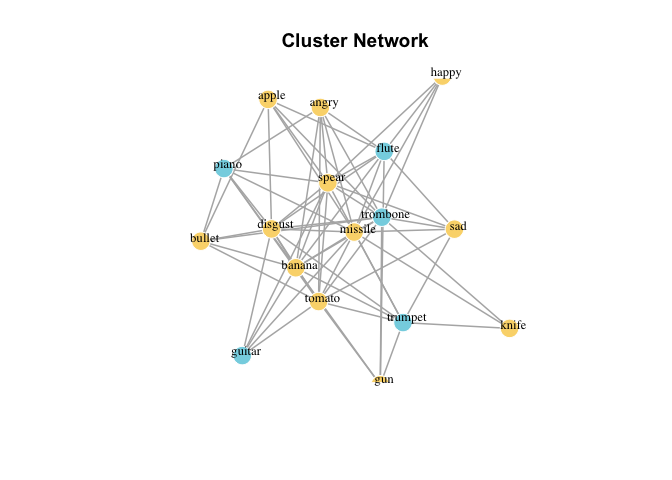
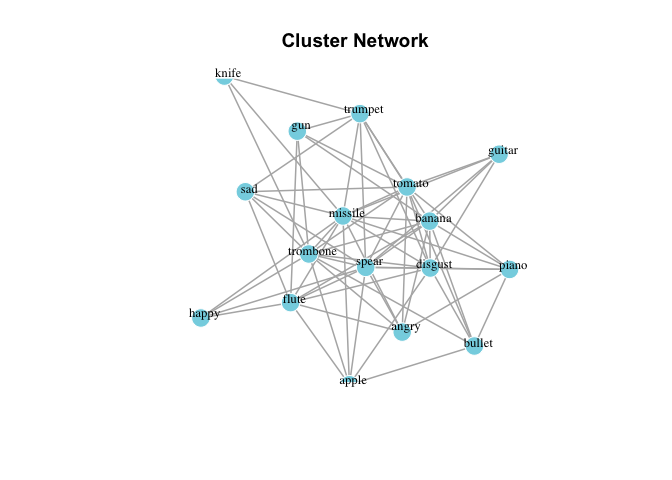
updated readme and network scripts

Changed region(s): [[0.2812, 0.125, 0.7812, 0.8125]]

diff --git a/docs/index.html b/docs/index.html
@@ -12,8 +12,8 @@
 <link rel="icon" sizes="any" href="favicon.ico">
 <link rel="manifest" href="site.webmanifest">
 <script src="deps/jquery-3.6.0/jquery-3.6.0.min.js"></script><meta name="viewport" content="width=device-width, initial-scale=1, shrink-to-fit=no">
-<link href="deps/bootstrap-5.3.1/bootstrap.min.css" rel="stylesheet">
-<script src="deps/bootstrap-5.3.1/bootstrap.bundle.min.js"></script><link href="deps/font-awesome-6.5.2/css/all.min.css" rel="stylesheet">
+<link href="deps/bootstrap-5.3.8/bootstrap.min.css" rel="stylesheet">
+<script src="deps/bootstrap-5.3.8/bootstrap.bundle.min.js"></script><link href="deps/font-awesome-6.5.2/css/all.min.css" rel="stylesheet">
 <link href="deps/font-awesome-6.5.2/css/v4-shims.min.css" rel="stylesheet">
 <script src="deps/headroom-0.11.0/headroom.min.js"></script><script src="deps/headroom-0.11.0/jQuery.headroom.min.js"></script><script src="deps/bootstrap-toc-1.0.1/bootstrap-toc.min.js"></script><script src="deps/clipboard.js-2.0.11/clipboard.min.js"></script><script src="deps/search-1.0.0/autocomplete.jquery.min.js"></script><script src="deps/search-1.0.0/fuse.min.js"></script><script src="deps/search-1.0.0/mark.min.js"></script><!-- pkgdown --><script src="pkgdown.js"></script><meta property="og:title" content="Compute Semantic Distance Between Text Constituents">
 <meta name="description" content="Cleans and formats language transcripts guided by a series of transformation options (e.g., lemmatize words, omit stopwords, split strings across rows). SemanticDistance computes two distinct metrics of cosine semantic distance (experiential and embedding). These values reflect pairwise cosine distance between different elements or chunks of a language sample. SemanticDistance can process monologues (e.g., stories, ordered text), dialogues (e.g., conversation transcripts), word pairs arrayed in columns, and unordered word lists. Users specify options for how they wish to chunk distance calculations. These options include: rolling ngram-to-word distance (window of n-words to each new word), ngram-to-ngram distance (2-word chunk to the next 2-word chunk), pairwise distance between words arrayed in columns, matrix comparisons (i.e., all possible pairwise distances between words in an unordered list), turn-by-turn distance (talker to talker in a dialogue transcript). SemanticDistance includes visualization options for analyzing distances as time series data and simple semantic network dynamics (e.g., clustering, undirected graph network).">
@@ -68,19 +68,20 @@
 SemanticDistance
 </h1>
 </div>
+<p>Compute Semantic Relatedness between Constituents of Sequential Continuous Text</p>
 <div class="section level1">
 <h1 id="section"><a class="anchor" aria-label="anchor" href="#section"></a></h1>
 <div style="clear: both; margin-top: 30px;">
 
 </div>
 <div style="display: flex; gap: 10px; flex-wrap: wrap; margin-bottom: 15px;">
-<p><a href="https://github.com/Reilly-ConceptsCognitionLab/SemanticDistance/releases" class="external-link"><img src="https://img.shields.io/github/v/release/Reilly-ConceptsCognitionLab/SemanticDistance?color=blue&amp;include_prereleases&amp;label=Release" alt="GitHub release"></a><a href="https://github.com/Reilly-ConceptsCognitionLab/SemanticDistance/tags" class="external-link"><img src="https://img.shields.io/github/v/tag/Reilly-ConceptsCognitionLab/SemanticDistance?color=blue" alt="GitHub tag (latest by date)"></a><a href="https://joss.theoj.org/papers/839ab720504a5c966b4b2893f78ec2b2" class="external-link"><img src="https://joss.theoj.org/papers/839ab720504a5c966b4b2893f78ec2b2/status.svg" alt="status"></a> <a href="https://github.com/Reilly-ConceptsCognitionLab/ConversationAlign/graphs/commit-activity" class="external-link"><img src="https://img.shields.io/badge/Maintained%3F-yes-green.svg" alt="Maintenance"></a> <a href="https://www.gnu.org/licenses/gpl-3.0" class="external-link"><img src="https://img.shields.io/badge/License-GPL%20v3+-blue.svg" alt="License: GPL v3+"></a></p>
+<p><a href="https://github.com/Reilly-ConceptsCognitionLab/SemanticDistance/releases" class="external-link"><img src="https://img.shields.io/github/v/release/Reilly-ConceptsCognitionLab/SemanticDistance?color=blue&amp;include_prereleases&amp;label=Release" alt="GitHub release"></a><a href="https://github.com/Reilly-ConceptsCognitionLab/SemanticDistance/tags" class="external-link"><img src="https://img.shields.io/github/v/tag/Reilly-ConceptsCognitionLab/SemanticDistance?color=blue" alt="GitHub tag (latest by date)"></a><a href="https://joss.theoj.org/papers/839ab720504a5c966b4b2893f78ec2b2" class="external-link"><img src="https://joss.theoj.org/papers/839ab720504a5c966b4b2893f78ec2b2/status.svg" alt="status"></a> <a href="https://www.gnu.org/licenses/gpl-3.0" class="external-link"><img src="https://img.shields.io/badge/License-GPL%20v3+-blue.svg" alt="License: GPL v3+"></a></p>
 </div>
 </div>
 <div class="section level1">
 <h1 id="overview">Overview<a class="anchor" aria-label="anchor" href="#overview"></a>
 </h1>
-<p><code>SemanticDistance</code> does the following operations: <br> 1) cleans and formats ordered text (monologues and dialogues) <br> 2) cleans and formats unordered word lists (e.g., bags-of-words) 3) computes pairwise semantic distance metrics using numerous chunking options 4) finds clustering solutions and creates simple semantic networks from given word list vectors. <br></p>
+<p><code>SemanticDistance</code> executes the following operations: <br> 1) cleans and formats ordered text (monologues and dialogues) <br> 2) cleans and formats unordered word lists (e.g., bags-of-words) <br> 3) computes pairwise semantic distance metrics using numerous chunking options <br> 4) finds clustering solutions and creates simple semantic networks from given word list vectors. <br></p>
 </div>
 <div class="section level1">
 <h1 id="install--load-package">Install &amp; Load Package<a class="anchor" aria-label="anchor" href="#install--load-package"></a>
@@ -94,7 +95,7 @@ SemanticDistance
 <h1 id="step-1-identify-your-data-structure">
 <span style="color: #8B0000; font-size: 1.1em; font-weight: bold;">Step 1: Identify Your Data Structure</span><a class="anchor" aria-label="anchor" href="#step-1-identify-your-data-structure"></a>
 </h1>
-<p><code>SemanticDistance</code> contains specialized functions for processing the text formats delineated to follow. To learn more about the specific options for string cleaning, computing distances, and visualizing output for each of these formats, visit its corresponding vigbnette. <br></p>
+<p><code>SemanticDistance</code> contains specialized functions for processing the text formats delineated to follow. To learn more about the specific options for string cleaning, computing distances, and visualizing output for each of these formats, visit its corresponding vignette. <br></p>
 <div class="section level2">
 <h2 id="monologue-example">Monologue (example)<a class="anchor" aria-label="anchor" href="#monologue-example"></a>
 </h2>
@@ -109,7 +110,7 @@ SemanticDistance
 </tr></tbody>
 </table>
 </div>
-<p>A monologue for our pourposes consists of any block of text NOT delineated by a talker/speaker. This includes ordered texts like stories or narratives, or unordered lists (i.e., bags of words). The minimum requirement for a monologue is one row and one column with some text in it. Here’s a sample monologue. <br></p>
+<p>A monologue for our purposes consists of any block of text NOT delineated by a talker/speaker. This includes ordered texts like stories or narratives, or unordered lists (i.e., bags of words). The minimum requirement for a monologue is one row and one column with some text in it. Here’s a sample monologue. <br></p>
 <div style="clear: both; margin-bottom: 20px;">
 
 </div>
@@ -941,8 +942,10 @@ fixed initial chunk of words to each new word or ngram
 <p><span style="color: #006400;">Arguments to <code>wordlist_to_network</code>:</span><br> -<code>dat</code> dataframe processed using <code><a href="reference/clean_monologue_or_list.html">clean_monologue_or_list()</a></code> <br> -<code>output</code> quoted argument <code>dendrogram</code> or <code>network</code> default is <code>dendrogram</code>. <br> -<code>dist_type</code> quoted argument, which distance norms would you like? default is <code>embedding</code> alternative is <code>SD15</code>. <br></p>
 <div class="sourceCode" id="cb10"><pre class="downlit sourceCode r">
 <code class="sourceCode R"><span><span class="va">MyCleanList</span> <span class="op">&lt;-</span> <span class="fu"><a href="reference/clean_monologue_or_list.html">clean_monologue_or_list</a></span><span class="op">(</span>dat<span class="op">=</span><span class="va">Unordered_List</span>, wordcol<span class="op">=</span><span class="st">'mytext'</span><span class="op">)</span></span>
-<span><span class="va">mydendro</span> <span class="op">&lt;-</span> <span class="fu"><a href="reference/wordlist_to_network.html">wordlist_to_network</a></span><span class="op">(</span><span class="va">MyCleanList</span>, output<span class="op">=</span><span class="st">'dendrogram'</span>, dist_type<span class="op">=</span><span class="st">'embedding'</span><span class="op">)</span></span></code></pre></div>
-<p><img src="reference/figures/README-unnamed-chunk-16-1.png" alt="" width="100%"></p>
+<span><span class="va">mydendro</span> <span class="op">&lt;-</span> <span class="fu"><a href="reference/wordlist_to_network.html">wordlist_to_network</a></span><span class="op">(</span><span class="va">MyCleanList</span>, output<span class="op">=</span><span class="st">'dendrogram'</span>, dist_type<span class="op">=</span><span class="st">'embedding'</span><span class="op">)</span></span>
+<span><span class="co">#&gt; [1] "Length of words: 17"</span></span>
+<span><span class="co">#&gt; [1] "my_kmax: 10"</span></span></code></pre></div>
+<p><img src="reference/figures/unnamed-chunk-16-1.png" alt="" width="100%" style="display: block; margin: auto auto auto 0;"></p>
 <div class="sourceCode" id="cb11"><pre class="downlit sourceCode r">
 <code class="sourceCode R"><span><span class="fu"><a href="https://rdrr.io/r/base/print.html" class="external-link">print</a></span><span class="op">(</span><span class="va">mydendro</span><span class="op">)</span></span>
 <span><span class="co">#&gt; 'dendrogram' with 2 branches and 17 members total, at height 5.168642</span></span></code></pre></div>
@@ -959,15 +962,17 @@ fixed initial chunk of words to each new word or ngram
 <p><span style="color: #006400;">Arguments to <code>clean_monologue_or_list</code></span> <br> - dat<code>input formatted dataframe. &lt;br&gt; -</code>dist_type<code>quoted argument distance option, default is "embedding", alt is</code>SD15`. <br></p>
 <div class="sourceCode" id="cb12"><pre class="downlit sourceCode r">
 <code class="sourceCode R"><span><span class="va">MyCleanList</span> <span class="op">&lt;-</span> <span class="fu"><a href="reference/clean_monologue_or_list.html">clean_monologue_or_list</a></span><span class="op">(</span>dat<span class="op">=</span><span class="va">Unordered_List</span>, wordcol<span class="op">=</span><span class="st">'mytext'</span><span class="op">)</span></span>
-<span><span class="va">mynetwork</span> <span class="op">&lt;-</span> <span class="fu"><a href="reference/wordlist_to_network.html">wordlist_to_network</a></span><span class="op">(</span><span class="va">MyCleanList</span>, output<span class="op">=</span><span class="st">'network'</span>, dist_type<span class="op">=</span><span class="st">'embedding'</span><span class="op">)</span></span></code></pre></div>
-<p><img src="reference/figures/README-unnamed-chunk-17-1.png" alt="" width="100%"></p>
+<span><span class="va">mynetwork</span> <span class="op">&lt;-</span> <span class="fu"><a href="reference/wordlist_to_network.html">wordlist_to_network</a></span><span class="op">(</span><span class="va">MyCleanList</span>, output<span class="op">=</span><span class="st">'network'</span>, dist_type<span class="op">=</span><span class="st">'embedding'</span><span class="op">)</span></span>
+<span><span class="co">#&gt; [1] "Length of words: 17"</span></span>
+<span><span class="co">#&gt; [1] "my_kmax: 10"</span></span></code></pre></div>
+<p><img src="reference/figures/unnamed-chunk-17-1.png" alt="" width="100%" style="display: block; margin: auto auto auto 0;"></p>
 <div class="sourceCode" id="cb13"><pre class="downlit sourceCode r">
 <code class="sourceCode R"><span><span class="fu"><a href="https://rdrr.io/r/base/print.html" class="external-link">print</a></span><span class="op">(</span><span class="va">mynetwork</span><span class="op">)</span></span>
-<span><span class="co">#&gt; IGRAPH d78291e UNW- 17 68 -- </span></span>
+<span><span class="co">#&gt; IGRAPH 4c13663 UNW- 17 68 -- </span></span>
 <span><span class="co">#&gt; + attr: name (v/c), cluster (v/n), color (v/c), size (v/n), label</span></span>
 <span><span class="co">#&gt; | (v/c), label.color (v/c), label.cex (v/n), weight (e/n), color (e/c),</span></span>
 <span><span class="co">#&gt; | width (e/n)</span></span>
-<span><span class="co">#&gt; + edges from d78291e (vertex names):</span></span>
+<span><span class="co">#&gt; + edges from 4c13663 (vertex names):</span></span>
 <span><span class="co">#&gt;  [1] trombone--missile trombone--gun     trombone--bullet  trombone--knife  </span></span>
 <span><span class="co">#&gt;  [5] trombone--spear   trombone--apple   trombone--banana  trombone--tomato </span></span>
 <span><span class="co">#&gt;  [9] trombone--disgust trombone--angry   trombone--sad     trombone--happy  </span></span>
@@ -1030,7 +1035,7 @@ fixed initial chunk of words to each new word or ngram
 </div>
 
 <div class="pkgdown-footer-right">
-  <p>Site built with <a href="https://pkgdown.r-lib.org/" class="external-link">pkgdown</a> 2.2.0.</p>
+  <p>Site built with <a href="https://pkgdown.r-lib.org/" class="external-link">pkgdown</a> 2.2.1.</p>
 </div>
 
     </footer>

diff --git a/docs/reference/index.html b/docs/reference/index.html
@@ -1,5 +1,5 @@
 <!DOCTYPE html>
-<!-- Generated by pkgdown: do not edit by hand --><html lang="en"><head><meta http-equiv="Content-Type" content="text/html; charset=UTF-8"><meta charset="utf-8"><meta http-equiv="X-UA-Compatible" content="IE=edge"><meta name="viewport" content="width=device-width, initial-scale=1, shrink-to-fit=no"><title>Package index • SemanticDistance</title><!-- favicons --><link rel="icon" type="image/png" sizes="96x96" href="../favicon-96x96.png"><link rel="icon" type="”image/svg+xml”" href="../favicon.svg"><link rel="apple-touch-icon" sizes="180x180" href="../apple-touch-icon.png"><link rel="icon" sizes="any" href="../favicon.ico"><link rel="manifest" href="../site.webmanifest"><script src="../deps/jquery-3.6.0/jquery-3.6.0.min.js"></script><meta name="viewport" content="width=device-width, initial-scale=1, shrink-to-fit=no"><link href="../deps/bootstrap-5.3.1/bootstrap.min.css" rel="stylesheet"><script src="../deps/bootstrap-5.3.1/bootstrap.bundle.min.js"></script><link href="../deps/font-awesome-6.5.2/css/all.min.css" rel="stylesheet"><link href="../deps/font-awesome-6.5.2/css/v4-shims.min.css" rel="stylesheet"><script src="../deps/headroom-0.11.0/headroom.min.js"></script><script src="../deps/headroom-0.11.0/jQuery.headroom.min.js"></script><script src="../deps/bootstrap-toc-1.0.1/bootstrap-toc.min.js"></script><script src="../deps/clipboard.js-2.0.11/clipboard.min.js"></script><script src="../deps/search-1.0.0/autocomplete.jquery.min.js"></script><script src="../deps/search-1.0.0/fuse.min.js"></script><script src="../deps/search-1.0.0/mark.min.js"></script><!-- pkgdown --><script src="../pkgdown.js"></script><meta property="og:title" content="Package index"><meta property="og:image" content="https://reilly-conceptscognitionlab.github.io/SemanticDistance/logo.png"></head><body>
+<!-- Generated by pkgdown: do not edit by hand --><html lang="en"><head><meta http-equiv="Content-Type" content="text/html; charset=UTF-8"><meta charset="utf-8"><meta http-equiv="X-UA-Compatible" content="IE=edge"><meta name="viewport" content="width=device-width, initial-scale=1, shrink-to-fit=no"><title>Package index • SemanticDistance</title><!-- favicons --><link rel="icon" type="image/png" sizes="96x96" href="../favicon-96x96.png"><link rel="icon" type="”image/svg+xml”" href="../favicon.svg"><link rel="apple-touch-icon" sizes="180x180" href="../apple-touch-icon.png"><link rel="icon" sizes="any" href="../favicon.ico"><link rel="manifest" href="../site.webmanifest"><script src="../deps/jquery-3.6.0/jquery-3.6.0.min.js"></script><meta name="viewport" content="width=device-width, initial-scale=1, shrink-to-fit=no"><link href="../deps/bootstrap-5.3.8/bootstrap.min.css" rel="stylesheet"><script src="../deps/bootstrap-5.3.8/bootstrap.bundle.min.js"></script><link href="../deps/font-awesome-6.5.2/css/all.min.css" rel="stylesheet"><link href="../deps/font-awesome-6.5.2/css/v4-shims.min.css" rel="stylesheet"><script src="../deps/headroom-0.11.0/headroom.min.js"></script><script src="../deps/headroom-0.11.0/jQuery.headroom.min.js"></script><script src="../deps/bootstrap-toc-1.0.1/bootstrap-toc.min.js"></script><script src="../deps/clipboard.js-2.0.11/clipboard.min.js"></script><script src="../deps/search-1.0.0/autocomplete.jquery.min.js"></script><script src="../deps/search-1.0.0/fuse.min.js"></script><script src="../deps/search-1.0.0/mark.min.js"></script><!-- pkgdown --><script src="../pkgdown.js"></script><meta property="og:title" content="Package index"><meta property="og:image" content="https://reilly-conceptscognitionlab.github.io/SemanticDistance/logo.png"></head><body>
     <a href="#main" class="visually-hidden-focusable">Skip to contents</a>
 
 
@@ -182,7 +182,7 @@
 </div>
 
 <div class="pkgdown-footer-right">
-  <p>Site built with <a href="https://pkgdown.r-lib.org/" class="external-link">pkgdown</a> 2.2.0.</p>
+  <p>Site built with <a href="https://pkgdown.r-lib.org/" class="external-link">pkgdown</a> 2.2.1.</p>
 </div>
 
     </footer></div>

diff --git a/docs/authors.html b/docs/authors.html
@@ -1,5 +1,5 @@
 <!DOCTYPE html>
-<!-- Generated by pkgdown: do not edit by hand --><html lang="en"><head><meta http-equiv="Content-Type" content="text/html; charset=UTF-8"><meta charset="utf-8"><meta http-equiv="X-UA-Compatible" content="IE=edge"><meta name="viewport" content="width=device-width, initial-scale=1, shrink-to-fit=no"><title>Authors and Citation • SemanticDistance</title><!-- favicons --><link rel="icon" type="image/png" sizes="96x96" href="favicon-96x96.png"><link rel="icon" type="”image/svg+xml”" href="favicon.svg"><link rel="apple-touch-icon" sizes="180x180" href="apple-touch-icon.png"><link rel="icon" sizes="any" href="favicon.ico"><link rel="manifest" href="site.webmanifest"><script src="deps/jquery-3.6.0/jquery-3.6.0.min.js"></script><meta name="viewport" content="width=device-width, initial-scale=1, shrink-to-fit=no"><link href="deps/bootstrap-5.3.1/bootstrap.min.css" rel="stylesheet"><script src="deps/bootstrap-5.3.1/bootstrap.bundle.min.js"></script><link href="deps/font-awesome-6.5.2/css/all.min.css" rel="stylesheet"><link href="deps/font-awesome-6.5.2/css/v4-shims.min.css" rel="stylesheet"><script src="deps/headroom-0.11.0/headroom.min.js"></script><script src="deps/headroom-0.11.0/jQuery.headroom.min.js"></script><script src="deps/bootstrap-toc-1.0.1/bootstrap-toc.min.js"></script><script src="deps/clipboard.js-2.0.11/clipboard.min.js"></script><script src="deps/search-1.0.0/autocomplete.jquery.min.js"></script><script src="deps/search-1.0.0/fuse.min.js"></script><script src="deps/search-1.0.0/mark.min.js"></script><!-- pkgdown --><script src="pkgdown.js"></script><meta property="og:title" content="Authors and Citation"><meta property="og:image" content="https://reilly-conceptscognitionlab.github.io/SemanticDistance/logo.png"></head><body>
+<!-- Generated by pkgdown: do not edit by hand --><html lang="en"><head><meta http-equiv="Content-Type" content="text/html; charset=UTF-8"><meta charset="utf-8"><meta http-equiv="X-UA-Compatible" content="IE=edge"><meta name="viewport" content="width=device-width, initial-scale=1, shrink-to-fit=no"><title>Authors and Citation • SemanticDistance</title><!-- favicons --><link rel="icon" type="image/png" sizes="96x96" href="favicon-96x96.png"><link rel="icon" type="”image/svg+xml”" href="favicon.svg"><link rel="apple-touch-icon" sizes="180x180" href="apple-touch-icon.png"><link rel="icon" sizes="any" href="favicon.ico"><link rel="manifest" href="site.webmanifest"><script src="deps/jquery-3.6.0/jquery-3.6.0.min.js"></script><meta name="viewport" content="width=device-width, initial-scale=1, shrink-to-fit=no"><link href="deps/bootstrap-5.3.8/bootstrap.min.css" rel="stylesheet"><script src="deps/bootstrap-5.3.8/bootstrap.bundle.min.js"></script><link href="deps/font-awesome-6.5.2/css/all.min.css" rel="stylesheet"><link href="deps/font-awesome-6.5.2/css/v4-shims.min.css" rel="stylesheet"><script src="deps/headroom-0.11.0/headroom.min.js"></script><script src="deps/headroom-0.11.0/jQuery.headroom.min.js"></script><script src="deps/bootstrap-toc-1.0.1/bootstrap-toc.min.js"></script><script src="deps/clipboard.js-2.0.11/clipboard.min.js"></script><script src="deps/search-1.0.0/autocomplete.jquery.min.js"></script><script src="deps/search-1.0.0/fuse.min.js"></script><script src="deps/search-1.0.0/mark.min.js"></script><!-- pkgdown --><script src="pkgdown.js"></script><meta property="og:title" content="Authors and Citation"><meta property="og:image" content="https://reilly-conceptscognitionlab.github.io/SemanticDistance/logo.png"></head><body>
     <a href="#main" class="visually-hidden-focusable">Skip to contents</a>
 
 
@@ -85,7 +85,7 @@ R package version 0.1.1, <a href="https://github.com/Reilly-ConceptsCognitionLab
 </div>
 
 <div class="pkgdown-footer-right">
-  <p>Site built with <a href="https://pkgdown.r-lib.org/" class="external-link">pkgdown</a> 2.2.0.</p>
+  <p>Site built with <a href="https://pkgdown.r-lib.org/" class="external-link">pkgdown</a> 2.2.1.</p>
 </div>
 
     </footer></div>

diff --git a/docs/LICENSE.html b/docs/LICENSE.html
@@ -1,5 +1,5 @@
 <!DOCTYPE html>
-<!-- Generated by pkgdown: do not edit by hand --><html lang="en"><head><meta http-equiv="Content-Type" content="text/html; charset=UTF-8"><meta charset="utf-8"><meta http-equiv="X-UA-Compatible" content="IE=edge"><meta name="viewport" content="width=device-width, initial-scale=1, shrink-to-fit=no"><title>GNU Lesser General Public License • SemanticDistance</title><!-- favicons --><link rel="icon" type="image/png" sizes="96x96" href="favicon-96x96.png"><link rel="icon" type="”image/svg+xml”" href="favicon.svg"><link rel="apple-touch-icon" sizes="180x180" href="apple-touch-icon.png"><link rel="icon" sizes="any" href="favicon.ico"><link rel="manifest" href="site.webmanifest"><script src="deps/jquery-3.6.0/jquery-3.6.0.min.js"></script><meta name="viewport" content="width=device-width, initial-scale=1, shrink-to-fit=no"><link href="deps/bootstrap-5.3.1/bootstrap.min.css" rel="stylesheet"><script src="deps/bootstrap-5.3.1/bootstrap.bundle.min.js"></script><link href="deps/font-awesome-6.5.2/css/all.min.css" rel="stylesheet"><link href="deps/font-awesome-6.5.2/css/v4-shims.min.css" rel="stylesheet"><script src="deps/headroom-0.11.0/headroom.min.js"></script><script src="deps/headroom-0.11.0/jQuery.headroom.min.js"></script><script src="deps/bootstrap-toc-1.0.1/bootstrap-toc.min.js"></script><script src="deps/clipboard.js-2.0.11/clipboard.min.js"></script><script src="deps/search-1.0.0/autocomplete.jquery.min.js"></script><script src="deps/search-1.0.0/fuse.min.js"></script><script src="deps/search-1.0.0/mark.min.js"></script><!-- pkgdown --><script src="pkgdown.js"></script><meta property="og:title" content="GNU Lesser General Public License"><meta property="og:image" content="https://reilly-conceptscognitionlab.github.io/SemanticDistance/logo.png"></head><body>
+<!-- Generated by pkgdown: do not edit by hand --><html lang="en"><head><meta http-equiv="Content-Type" content="text/html; charset=UTF-8"><meta charset="utf-8"><meta http-equiv="X-UA-Compatible" content="IE=edge"><meta name="viewport" content="width=device-width, initial-scale=1, shrink-to-fit=no"><title>GNU Lesser General Public License • SemanticDistance</title><!-- favicons --><link rel="icon" type="image/png" sizes="96x96" href="favicon-96x96.png"><link rel="icon" type="”image/svg+xml”" href="favicon.svg"><link rel="apple-touch-icon" sizes="180x180" href="apple-touch-icon.png"><link rel="icon" sizes="any" href="favicon.ico"><link rel="manifest" href="site.webmanifest"><script src="deps/jquery-3.6.0/jquery-3.6.0.min.js"></script><meta name="viewport" content="width=device-width, initial-scale=1, shrink-to-fit=no"><link href="deps/bootstrap-5.3.8/bootstrap.min.css" rel="stylesheet"><script src="deps/bootstrap-5.3.8/bootstrap.bundle.min.js"></script><link href="deps/font-awesome-6.5.2/css/all.min.css" rel="stylesheet"><link href="deps/font-awesome-6.5.2/css/v4-shims.min.css" rel="stylesheet"><script src="deps/headroom-0.11.0/headroom.min.js"></script><script src="deps/headroom-0.11.0/jQuery.headroom.min.js"></script><script src="deps/bootstrap-toc-1.0.1/bootstrap-toc.min.js"></script><script src="deps/clipboard.js-2.0.11/clipboard.min.js"></script><script src="deps/search-1.0.0/autocomplete.jquery.min.js"></script><script src="deps/search-1.0.0/fuse.min.js"></script><script src="deps/search-1.0.0/mark.min.js"></script><!-- pkgdown --><script src="pkgdown.js"></script><meta property="og:title" content="GNU Lesser General Public License"><meta property="og:image" content="https://reilly-conceptscognitionlab.github.io/SemanticDistance/logo.png"></head><body>
     <a href="#main" class="visually-hidden-focusable">Skip to contents</a>
 
 
@@ -111,7 +111,7 @@
 </div>
 
 <div class="pkgdown-footer-right">
-  <p>Site built with <a href="https://pkgdown.r-lib.org/" class="external-link">pkgdown</a> 2.2.0.</p>
+  <p>Site built with <a href="https://pkgdown.r-lib.org/" class="external-link">pkgdown</a> 2.2.1.</p>
 </div>
 
     </footer></div>

diff --git a/docs/404.html b/docs/404.html
@@ -12,8 +12,8 @@
 <link rel="icon" sizes="any" href="https://reilly-conceptscognitionlab.github.io/SemanticDistance/favicon.ico">
 <link rel="manifest" href="https://reilly-conceptscognitionlab.github.io/SemanticDistance/site.webmanifest">
 <script src="https://reilly-conceptscognitionlab.github.io/SemanticDistance/deps/jquery-3.6.0/jquery-3.6.0.min.js"></script><meta name="viewport" content="width=device-width, initial-scale=1, shrink-to-fit=no">
-<link href="https://reilly-conceptscognitionlab.github.io/SemanticDistance/deps/bootstrap-5.3.1/bootstrap.min.css" rel="stylesheet">
-<script src="https://reilly-conceptscognitionlab.github.io/SemanticDistance/deps/bootstrap-5.3.1/bootstrap.bundle.min.js"></script><link href="https://reilly-conceptscognitionlab.github.io/SemanticDistance/deps/font-awesome-6.5.2/css/all.min.css" rel="stylesheet">
+<link href="https://reilly-conceptscognitionlab.github.io/SemanticDistance/deps/bootstrap-5.3.8/bootstrap.min.css" rel="stylesheet">
+<script src="https://reilly-conceptscognitionlab.github.io/SemanticDistance/deps/bootstrap-5.3.8/bootstrap.bundle.min.js"></script><link href="https://reilly-conceptscognitionlab.github.io/SemanticDistance/deps/font-awesome-6.5.2/css/all.min.css" rel="stylesheet">
 <link href="https://reilly-conceptscognitionlab.github.io/SemanticDistance/deps/font-awesome-6.5.2/css/v4-shims.min.css" rel="stylesheet">
 <script src="https://reilly-conceptscognitionlab.github.io/SemanticDistance/deps/headroom-0.11.0/headroom.min.js"></script><script src="https://reilly-conceptscognitionlab.github.io/SemanticDistance/deps/headroom-0.11.0/jQuery.headroom.min.js"></script><script src="https://reilly-conceptscognitionlab.github.io/SemanticDistance/deps/bootstrap-toc-1.0.1/bootstrap-toc.min.js"></script><script src="https://reilly-conceptscognitionlab.github.io/SemanticDistance/deps/clipboard.js-2.0.11/clipboard.min.js"></script><script src="https://reilly-conceptscognitionlab.github.io/SemanticDistance/deps/search-1.0.0/autocomplete.jquery.min.js"></script><script src="https://reilly-conceptscognitionlab.github.io/SemanticDistance/deps/search-1.0.0/fuse.min.js"></script><script src="https://reilly-conceptscognitionlab.github.io/SemanticDistance/deps/search-1.0.0/mark.min.js"></script><!-- pkgdown --><script src="https://reilly-conceptscognitionlab.github.io/SemanticDistance/pkgdown.js"></script><meta property="og:title" content="Page not found (404)">
 <meta property="og:image" content="https://reilly-conceptscognitionlab.github.io/SemanticDistance/logo.png">
@@ -76,7 +76,7 @@ Content not found. Please use links in the navbar.
 </div>
 
 <div class="pkgdown-footer-right">
-  <p>Site built with <a href="https://pkgdown.r-lib.org/" class="external-link">pkgdown</a> 2.2.0.</p>
+  <p>Site built with <a href="https://pkgdown.r-lib.org/" class="external-link">pkgdown</a> 2.2.1.</p>
 </div>
 
     </footer>

diff --git a/README.md b/README.md
@@ -30,12 +30,12 @@ v3+](https://img.shields.io/badge/License-GPL%20v3+-blue.svg)](https://www.gnu.o
 
 # Overview
 
-`SemanticDistance` does the following operations: <br> 1) cleans and
+`SemanticDistance` executes the following operations: <br> 1) cleans and
 formats ordered text (monologues and dialogues) <br> 2) cleans and
-formats unordered word lists (e.g., bags-of-words) 3) computes pairwise
-semantic distance metrics using numerous chunking options 4) finds
-clustering solutions and creates simple semantic networks from given
-word list vectors. <br>
+formats unordered word lists (e.g., bags-of-words) <br> 3) computes
+pairwise semantic distance metrics using numerous chunking options <br>
+4) finds clustering solutions and creates simple semantic networks from
+given word list vectors. <br>
 
 # Install & Load Package
 
@@ -454,6 +454,8 @@ is `SD15`. <br>
 ``` r
 MyCleanList <- clean_monologue_or_list(dat=Unordered_List, wordcol='mytext')
 mydendro <- wordlist_to_network(MyCleanList, output='dendrogram', dist_type='embedding')
+#> [1] "Length of words: 17"
+#> [1] "my_kmax: 10"
 ```
 
 <img src="man/figures/unnamed-chunk-16-1.png" alt="" width="100%" style="display: block; margin: auto auto auto 0;" />
@@ -482,17 +484,19 @@ dat`input formatted dataframe. <br> -`dist_type`quoted argument distance option,
 ``` r
 MyCleanList <- clean_monologue_or_list(dat=Unordered_List, wordcol='mytext')
 mynetwork <- wordlist_to_network(MyCleanList, output='network', dist_type='embedding')
+#> [1] "Length of words: 17"
+#> [1] "my_kmax: 10"
 ```
 
 <img src="man/figures/unnamed-chunk-17-1.png" alt="" width="100%" style="display: block; margin: auto auto auto 0;" />
 
 ``` r
 print(mynetwork)
-#> IGRAPH 0a60b02 UNW- 17 68 -- 
+#> IGRAPH 4c13663 UNW- 17 68 -- 
 #> + attr: name (v/c), cluster (v/n), color (v/c), size (v/n), label
 #> | (v/c), label.color (v/c), label.cex (v/n), weight (e/n), color (e/c),
 #> | width (e/n)
-#> + edges from 0a60b02 (vertex names):
+#> + edges from 4c13663 (vertex names):
 #>  [1] trombone--missile trombone--gun     trombone--bullet  trombone--knife  
 #>  [5] trombone--spear   trombone--apple   trombone--banana  trombone--tomato 
 #>  [9] trombone--disgust trombone--angry   trombone--sad     trombone--happy  
